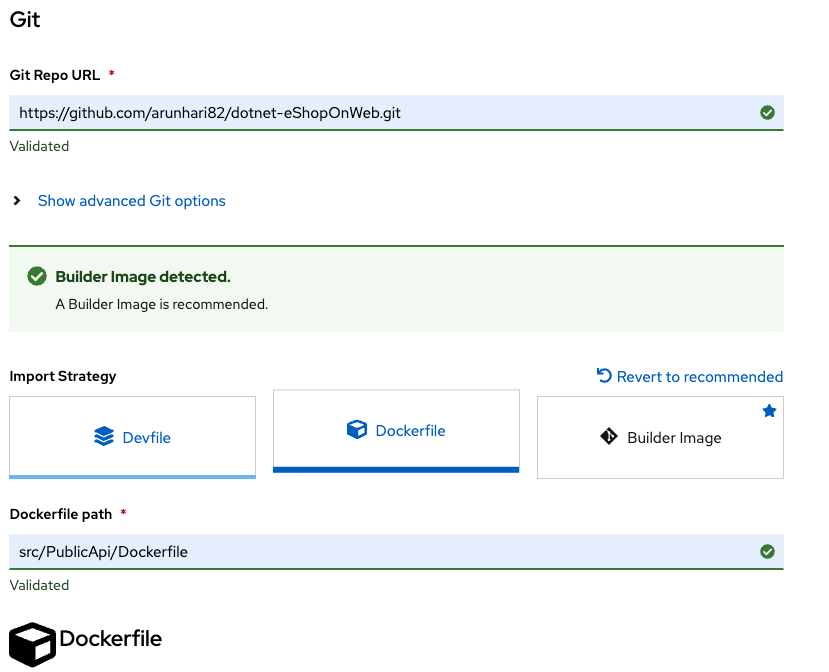
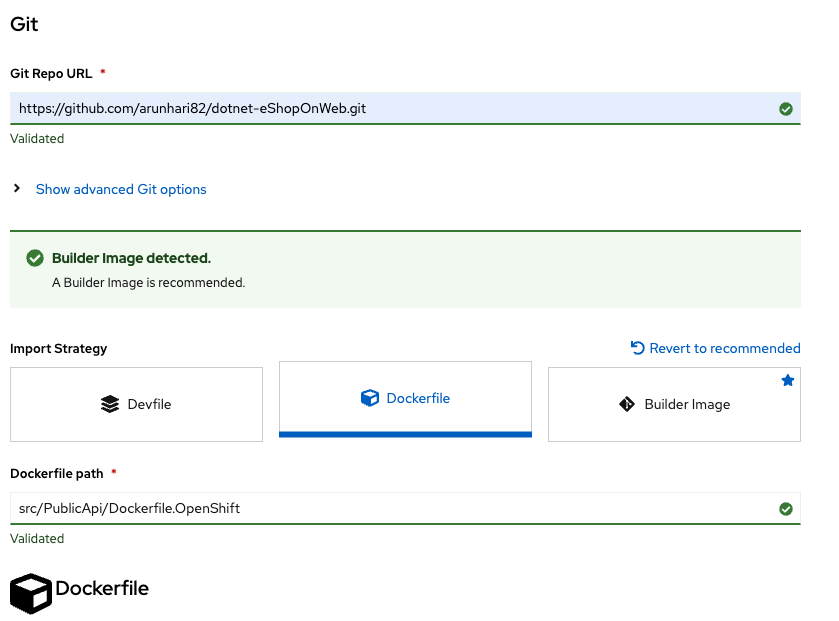
Updated documentation for Docker strategy

diff --git a/OpenshiftDeployment.md b/OpenshiftDeployment.md
@@ -79,7 +79,7 @@ graph TD;
         oc create cm  appsettings-cm  --from-file=appsettings.json=openshift/publicApi/assets/appsettings-passwordupdated.json
         
           ------- or --------
-          
+
         sed 's/CHANGE_DB_PASSWORD/'"$PASSWORD"'/g' openshift/publicApi/configmap.yaml > openshift/publicApi/configmap-passwordupdated.yaml
         oc create -f openshift/publicApi/configmap-passwordupdated.yaml
 
@@ -132,7 +132,7 @@ Install SQL Server which is a Prerequisite
  ### Public API :
 
  Use Import from Git from Console. Select the following
- Dockerfile Path as `src/PublicApi/Dockerfile`. 
+ Dockerfile Path as `src/PublicApi/Dockerfile.OpenShift`. 
  Application Name as `docker-demo`
  Name as `public-api`
  Uncheck Create Route
@@ -163,7 +163,7 @@ Install SQL Server which is a Prerequisite
 ### Web App :
 
  Use Import from Git from Console. Select the following
- Dockerfile Path as `src/Web/Dockerfile`. 
+ Dockerfile Path as `src/Web/Dockerfile.OpenShift`. 
  Application Name as `docker-demo`
  Name as `web-app`
  Port as 8080
